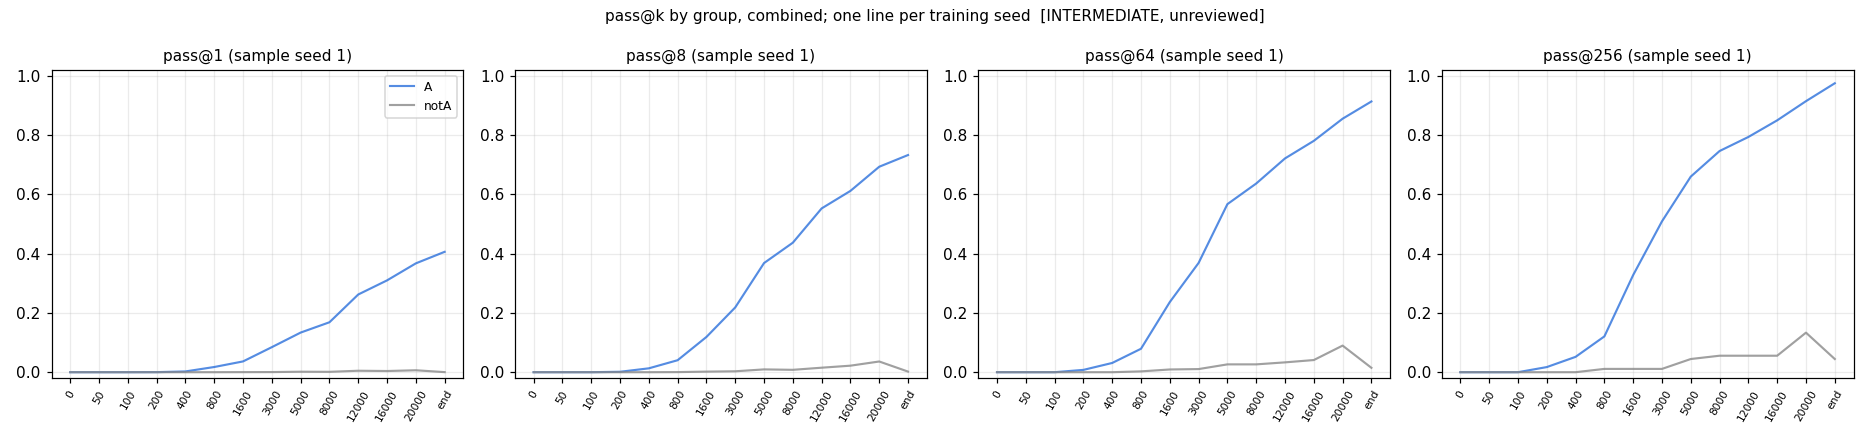
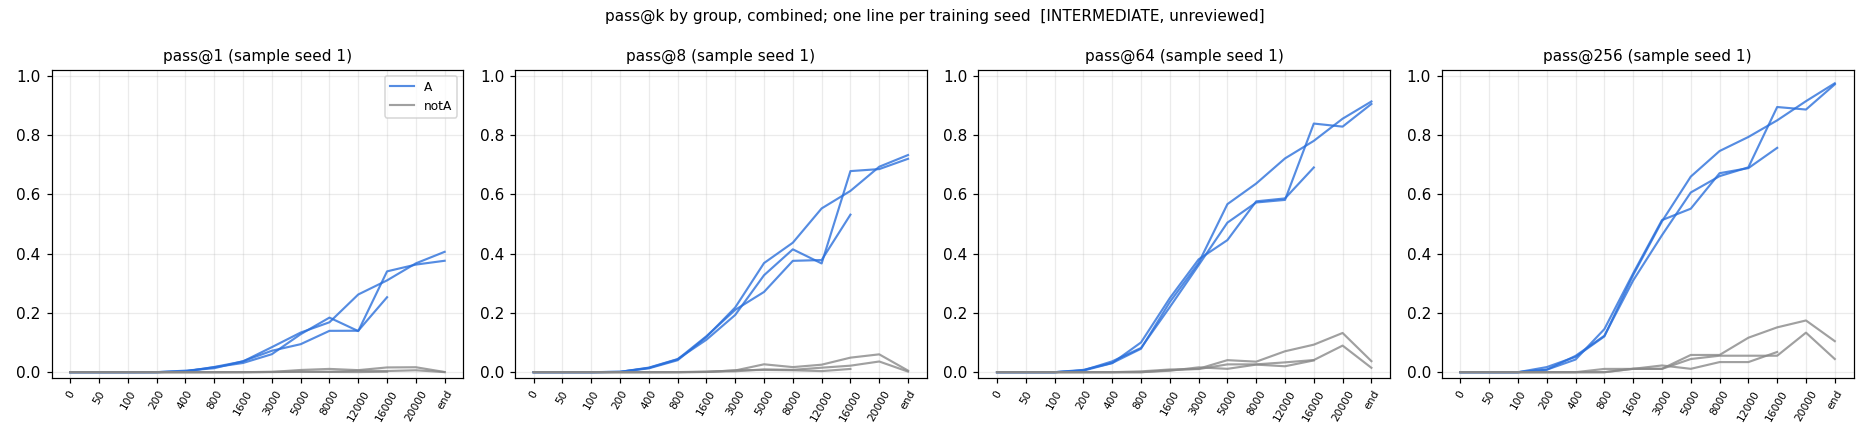
trajectory: pretraining half for 3 seeds (intermediate, unreviewed)
Edited-by: agent:claude
Agent-role: executor
Run-id: trajectory

diff --git a/tj_registry.py b/tj_registry.py
@@ -1,0 +1,64 @@
+#!/usr/bin/env python3
+"""trajectory: per-checkpoint, per-theorem registry rows (REGISTRY.md), written on the VPS from the pulled files.
+
+  ND_RUN_ID=trajectory python3 tj_registry.py
+
+Rows (arm 'best-cap12', seed = training seed, labels: ckpt label, theorem, pool, group, round):
+  pass_count   value = accepted samples of 256 (n = 256), labels.sample_seed      <- artifacts/tj/eval/*__<pool>_x<ss>.jsonl
+  tf_logp      value = teacher-forced log p of the target (T 1.0, base-marginalised, environment-assigned names not scored),
+               labels.target (ref | ev), labels.step_lp (per step), labels.w1 / w1_idx / w1_kind, labels.logp_T08
+                                                                                <- artifacts/tj/score/s<S>/<ckpt>.jsonl
+The model behind every row: best-cap12 recipe (ALiBiGPT 6 x 384, 9,560,832 params, lean_staten, from scratch on K12,
+Stage-1 1,200 s on an A40, T1 ladder on RTX A6000); checkpoint paths and md5s in artifacts/tj/score/ckpts_s<S>.md5.
+"""
+import glob, json, os, re
+import record
+
+CKP = {}
+
+
+def ckpath(s, ck):
+    if ck.startswith('r'):
+        return f'ckpts/tj/ladder/la_T1_best12_s{s}_{ck}.pt'
+    if ck == 'pend':
+        return f'ckpts/tj/stage1_best12_s{s}_b1200.pt'
+    return f'ckpts/tj/stage1_best12_s{s}_b1200_step{ck[1:]}.pt'
+
+
+def main():
+    md5 = {}
+    for f in glob.glob('artifacts/tj/score/ckpts_s*.md5'):
+        for l in open(f):
+            h, p = l.split()
+            md5[p] = h
+    summ = json.load(open('artifacts/tj/summary.json'))
+    n = 0
+    for f in sorted(glob.glob('artifacts/tj/eval/s*_*__*_x*.jsonl')):
+        m = re.match(r's(\d)_(\w+?)__(tb72|h250)_x(\d)\.jsonl$', os.path.basename(f))
+        if not m:
+            continue
+        s, ck, pool, ss = int(m.group(1)), m.group(2), m.group(3), int(m.group(4))
+        p = ckpath(s, ck)
+        for r in (json.loads(l) for l in open(f)):
+            record.record('pass_count', r['n_ok'], n=r['n_tried'], arm='best-cap12', seed=s, ckpt=p, split=pool, source=f,
+                          ckpt_label=ck, ckpt_md5=md5.get(p), theorem=r['name'], sample_seed=ss, k=256, temperature=0.8,
+                          max_steps=96, max_action=512, env='state', round=(int(ck[1:]) if ck.startswith('r') else None))
+            n += 1
+    for f in sorted(glob.glob('artifacts/tj/score/s[0-9]/s*_*.jsonl')):
+        m = re.match(r's(\d)_(\w+)\.jsonl$', os.path.basename(f))
+        s, ck = int(m.group(1)), m.group(2)
+        p = ckpath(s, ck)
+        for o in (json.loads(l) for l in open(f)):
+            kind, name = o['tid'].split(':', 1)
+            t = o['T1.0']
+            record.record('tf_logp', t['total'], n=len(t['step_lp']), arm='best-cap12', seed=s, ckpt=p, source=f, ckpt_label=ck,
+                          ckpt_md5=md5.get(p), theorem=name, target=kind, step_lp=t['step_lp'], w1=t['w1'], w1_idx=t['w1_idx'],
+                          w1_kind=t['w1_kind'], logp_T08=o['T0.8']['total'], incl_names_total=t['incl_names_total'],
+                          temperature=1.0, round=(int(ck[1:]) if ck.startswith('r') else None))
+            n += 1
+    record.sync()
+    print(f'{n} rows; groups per seed: ' + json.dumps({s: v['groups'] for s, v in summ['seeds'].items()}))
+
+
+if __name__ == '__main__':
+    main()

diff --git a/STATUS.md b/STATUS.md
@@ -246,3 +246,4 @@ Brief: run brief `trajectory` (proposal 18, Dan 2026-10-01). Policy: AGENT_POLIC
 - 2026-10-01 06:45 UTC  run started (executor). Pre-registration `preregistration/trajectory.md` committed before the first pod. Reference proofs: holdout250 from ladder-A's minlen labels (250/250 convert); textbook72 has no reference texts, so minlen on its 72 prompts (Lean-checked).
 - 08:00 UTC  Stage-1 ×3 done on tj-p0 (A40; A40 stock ran out after one pod, so Stage-1s ran one after another): 24,077 / 24,345 / 24,328 steps, held-out greedy 0.921 / 0.936 / 0.962 (best-state best-cap12: 23,951–24,123 steps, 0.903–0.951); 14 checkpoints each in the bucket. T1 ladders on RTX A6000 (tj-p1/p2/p3, same GA102 chip as the A40) since 07:06 / 07:30 / 07:52; ≈ 40 min per early round. Readers tj-r0 (A6000) and tj-p0 (A40). textbook72 reference proofs: minlen 57/72 at bound 14; bound 22 running for the other 15. Pods: 5 (4 × A6000 $0.53/h, 1 × A40 $0.49/h).
 - 09:35 UTC  **Pretraining half, seed 0, INTERMEDIATE / UNREVIEWED** (`figures/tj_pre_{ref,passk}_{tb72,h250,combined}.png`, `artifacts/tj/analysis_pre_stdout.txt`). Model: fresh best-cap12 s0 (9.56M, `lean_staten`, from scratch on K12, 24,077 steps / 1,200 s on an A40). End of pretraining, sample seed 0 (best-state protocol): textbook72 32/72 (best-state s0: 32), holdout250 200/250 (best-state 182–195). Reference proofs (minlen; 57/72 + 250/250), log p at T 1.0 with environment-assigned names not scored: median worst step at the end of pretraining −2.2 nats for theorems pretraining solves (A, n 231) vs −6.9 for the rest (n 76); medians rise steadily from step 400 to the end (A −8.5 → −2.2; rest −10.7 → −6.9), with no plateau. pass@256 (seed 1) on A climbs 0.05 (step 400) → 0.97 (end); on the rest it peaks at 0.13 at step 20,000 and is 0.04 at the end — the dip at the checkpoint that defines the group is selection on which theorems, not estimation bias. Scoring fix before any group result: names the environment assigns are not scored (log.md 09:25). Ladders: s0 round 4, s1 round 3, s2 round 2 (OOM at batch 2,048 in round 2 → resumed at 1,024).
+- 11:45 UTC  **Pretraining half, 3 seeds, INTERMEDIATE / UNREVIEWED** (same figures, now seeds 0–2; `artifacts/tj/analysis_pre_stdout.txt`). Fresh best-cap12 s0–s2 (9.56M, `lean_staten`, K12, Stage-1 1,200 s on an A40). End of pretraining, sample seed 0: textbook72 32 / 32 / 38 (best-state 32 / 27 / 27), holdout250 200 / 204 / 196 (best-state 184 / 195 / 182) — inside the pre-registered sanity ranges, holdout250 ≈ 13 higher on average. A (pretraining solves) = 232 / 236 / 234 of 322 (predicted 200–232). Reference-proof log p (T 1.0), median over theorem-seed pairs at step 12k → end: A worst step −3.8 → −2.3 (n 698), rest −8.2 → −6.6 (n 223); total −6.7 → −4.3 vs −20.9 → −13.9. pass@256 (seed 1) end of pretraining: A 0.97, rest 0.09. Ladders: s0 round 6, s1 round 5, s2 round 4; projected end ≈ 15:30 (s0) – 17:00 (s2).
